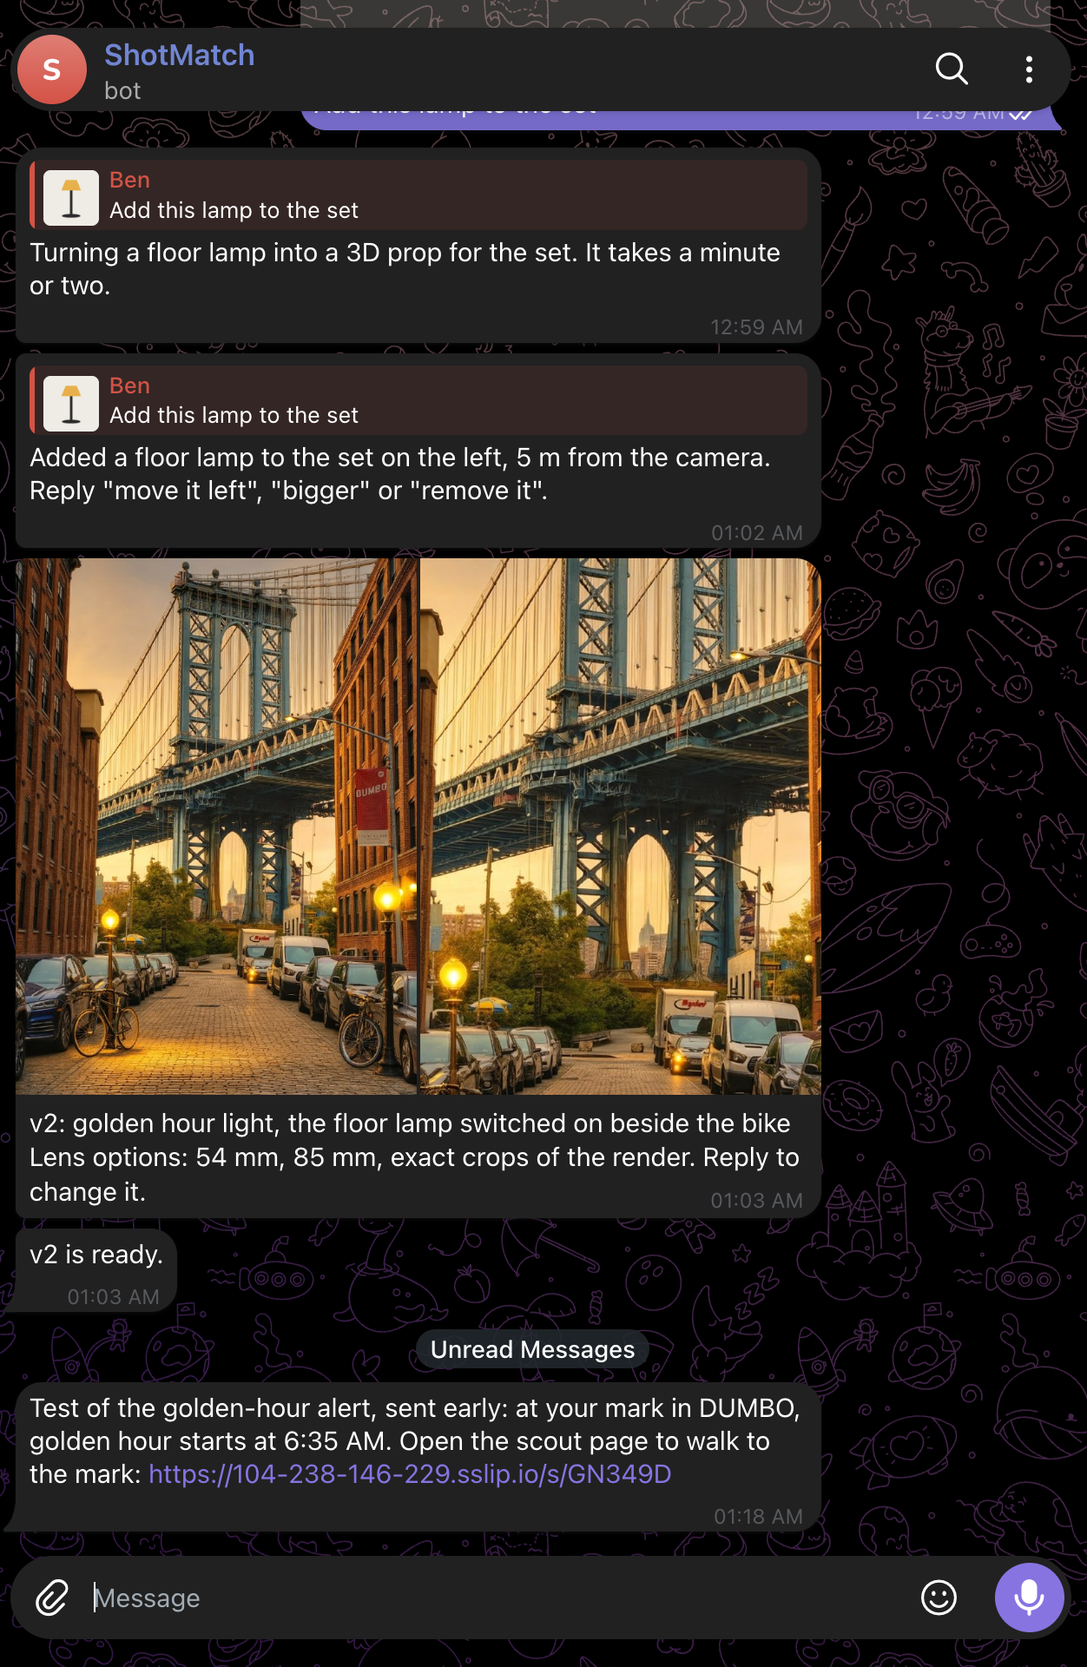
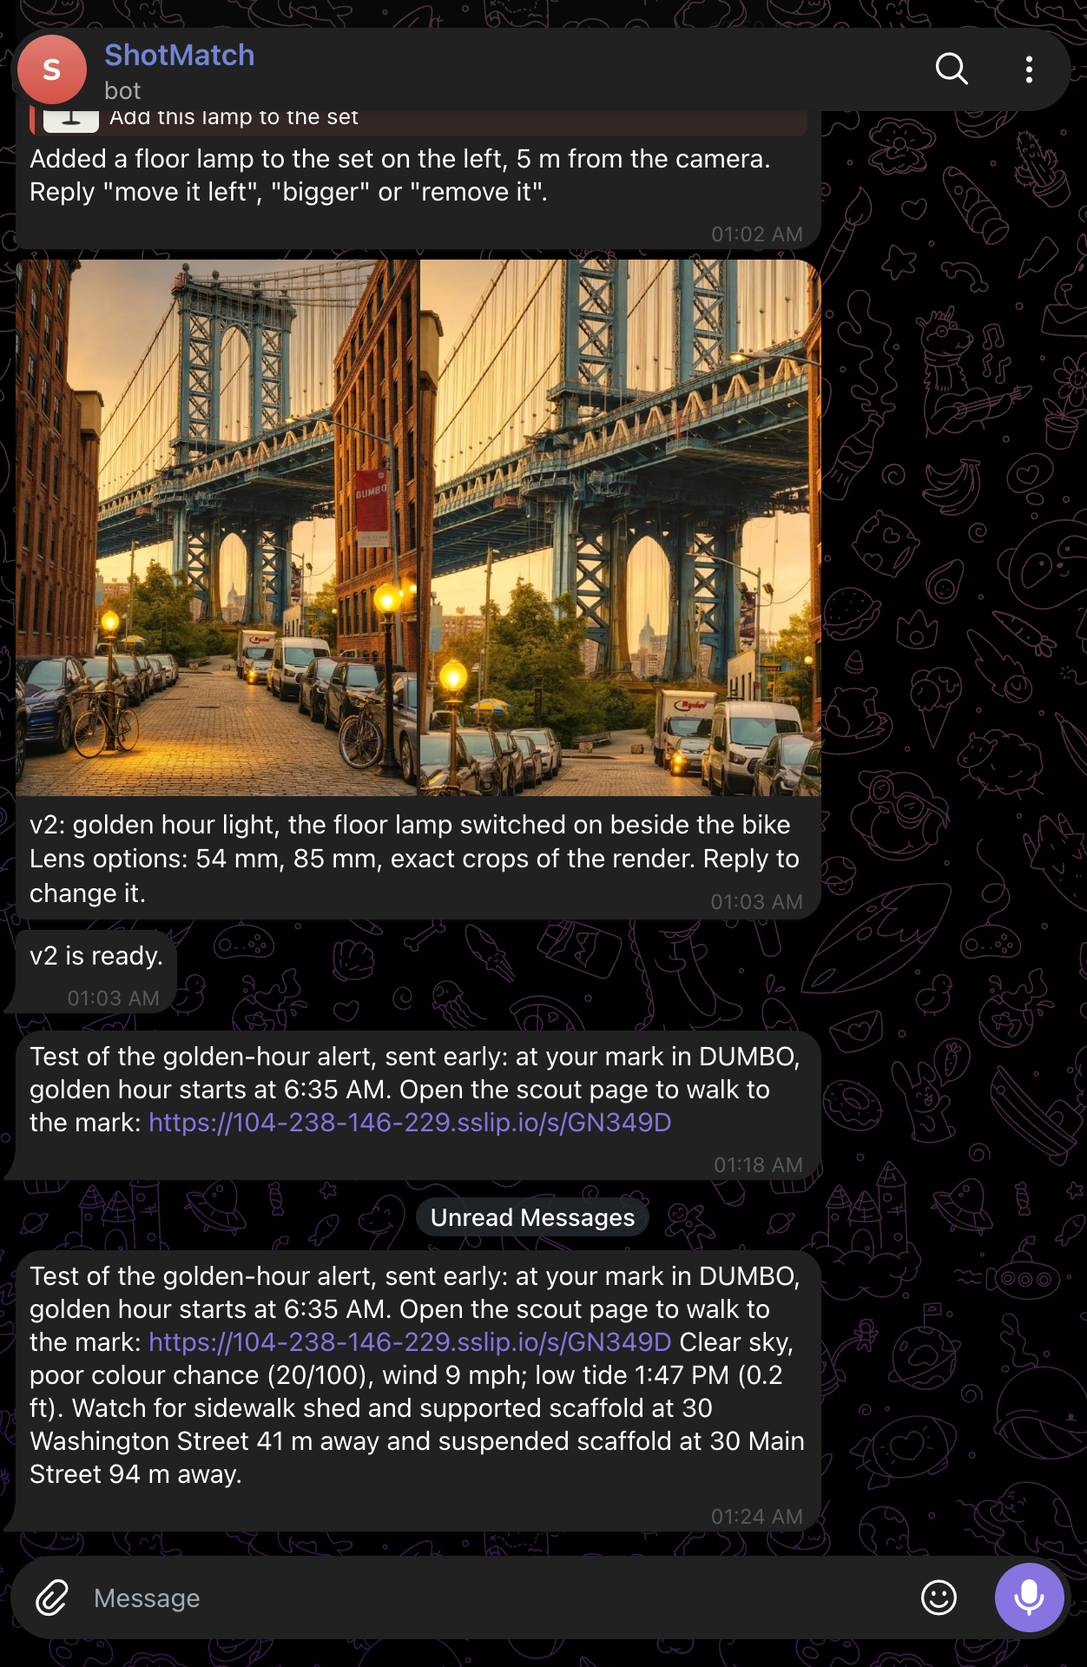
Render runs in the background (202 + poll, parallel edits, 35-43 s for two people); 'make it sunset' picks the evening window; alerts carry conditions

diff --git a/site/src/tracks/photon.ts b/site/src/tracks/photon.ts
@@ -26,10 +26,10 @@ export default {
   order: 3,
   oneLine: 'The shared set reaches every person on the app they already use, and a phone call can guide you to the mark and edit the set by voice.',
   noteTag: 'Live on Telegram',
-  note: 'Every mechanism that runs on Telegram is shown below from real screenshots: Photon\'s live API and the managed bot @ShotMatchSetBot, Sunday Nov 8, 12:42 to 1:18 AM CT. iMessage, SMS, voice calls, email and WhatsApp Business each need a number, DNS or Meta signup, so the phone call, the fallback between channels and those channels are shown from our end-to-end run against a stand-in for the Photon Beta API and tagged Stand-in.',
+  note: 'Every mechanism that runs on Telegram is shown below from real screenshots: Photon\'s live API and the managed bot @ShotMatchSetBot, Sunday Nov 8, 12:42 to 1:24 AM CT. iMessage, SMS, voice calls, email and WhatsApp Business each need a number, DNS or Meta signup, so the phone call, the fallback between channels and those channels are shown from our end-to-end run against a stand-in for the Photon Beta API and tagged Stand-in.',
   hero: { img: liveLocate, alt: 'The live Telegram chat with the ShotMatch bot: a photo of the Manhattan Bridge from Washington St goes in; the reply says Solid, 1600 matches, where to stand, facing north 4 degrees, 54 mm equivalent or about 2.2x on an iPhone, and the next golden hour.', caption: 'Live on Telegram, Nov 8, 12:51 AM CT: a texted photo comes back located, with where to stand, the heading, the lens and the next good light.', frame: 'none' },
   headline: [
-    { value: '9', label: 'live round trips on Telegram, 12:42 to 1:18 AM CT: hello, locate, v1, fork to v1.1, versions, check-in, prop, fan-out, golden-hour alert', check: 'web/screenshots/photon-live-*.png; message @ShotMatchSetBot' },
+    { value: '9', label: 'live round trips on Telegram, 12:42 to 1:24 AM CT: hello, locate, v1, fork to v1.1, versions, check-in, prop, fan-out, golden-hour alert with conditions', check: 'web/screenshots/photon-live-*.png; message @ShotMatchSetBot' },
     { value: '29 of 29', label: 'end-to-end checks across all five mechanisms', check: 'cd crew && npx tsx scripts/photon-e2e.ts', standIn: true },
     { value: '6', label: 'channels, each in its own form: iMessage, Telegram, SMS, WhatsApp Business, email, phone', check: 'crew/src/channels/format.ts' },
   ],
@@ -101,9 +101,9 @@ export default {
     {
       mechanism: '5. Messages at the moment of the shot',
       channel: 'Telegram',
-      why: 'Live: the golden-hour alert arrives on the person\'s own channel at the moment the schedule fires; with the scout page open it adds the walking distance. Here a planner scheduled the module\'s reminder a minute out as a test, SpacetimeDB fired it and wrote the outbox row, and the crew sent one message per person through Photon. The fallback to the next channel when iMessage refuses a late send is still proven only against the stand-in.',
-      source: 'Photon live API, managed Telegram bot, Nov 8, 1:18 AM CT',
-      live: { when: '1:18 AM CT', shots: [{ img: liveAlert, alt: 'Telegram: after the v2 album, the bot sends Test of the golden-hour alert, sent early: at your mark in DUMBO, golden hour starts at 6:35 AM. Open the scout page to walk to the mark, with the scout link.' }] },
+      why: 'Live: the golden-hour alert arrives on the person\'s own channel at the moment the schedule fires, with the conditions at the mark: "Clear sky, poor colour chance (20/100), wind 9 mph; low tide 1:47 PM (0.2 ft). Watch for sidewalk shed and supported scaffold at 30 Washington Street 41 m away and suspended scaffold at 30 Main Street 94 m away." With the scout page open it adds the walking distance. These were tests a planner scheduled a minute out (1:18 AM CT without conditions, 1:24 AM CT with them): SpacetimeDB fired the reminder and wrote the outbox row, and the crew sent one message per person through Photon. The fallback to the next channel when iMessage refuses a late send is still proven only against the stand-in.',
+      source: 'Photon live API, managed Telegram bot, Nov 8, 1:18 and 1:24 AM CT',
+      live: { when: '1:24 AM CT', shots: [{ img: liveAlert, alt: 'Telegram: two test golden-hour alerts. 1:18 AM: at your mark in DUMBO, golden hour starts at 6:35 AM, open the scout page to walk to the mark. 1:24 AM: the same, plus Clear sky, poor colour chance (20/100), wind 9 mph; low tide 1:47 PM (0.2 ft). Watch for sidewalk shed and supported scaffold at 30 Washington Street 41 m away and suspended scaffold at 30 Main Street 94 m away.' }] },
       messages: [],
     },
     {
@@ -146,14 +146,14 @@ export default {
     { name: 'Check in by photo', line: 'A texted photo is classified, solved against the spot and compared with the shot camera; the reply gives the correction (live: 9.3 m south, 12 paces forward).', where: 'crew/src/channels/photos.ts, marks.ts; checkin table', status: 'live', img: liveCheckin, alt: 'The live Telegram check-in reply' },
     { name: 'Photo to prop', line: 'A photo of one object becomes a prop through Nemotron and TRELLIS, placed where the reply says. Live run: TRELLIS returned an error, so the lamp became a flat cut-out from the photo.', where: 'crew/src/channels/photos.ts, /api/props/generate', status: 'live', img: liveProp, alt: 'The live Telegram lamp photo and the bot\'s reply' },
     { name: 'Channel fallback on problem codes', line: 'SHARED_LINE_INBOUND_REQUIRED, SPACE_NOT_SENDABLE and SMS_CAMPAIGN_NOT_ELIGIBLE move an alert to the next channel.', where: 'crew/src/channels/alerts.ts', status: 'stand-in' },
-    { name: 'Golden-hour alerts', line: 'The module\'s reminder schedule fires 20 minutes before golden hour; the crew writes one message per person, with their walking distance when their scout page is open (live: a test alert at 1:18 AM CT).', where: 'module reminder schedule, crew/src/channels/alerts.ts', status: 'live', img: liveAlert, alt: 'The live golden-hour test alert in Telegram' },
+    { name: 'Golden-hour alerts', line: 'The module\'s reminder schedule fires 20 minutes before golden hour; the crew writes one message per person, with the conditions at the mark and their walking distance when their scout page is open (live: test alerts at 1:18 and 1:24 AM CT).', where: 'module reminder schedule, crew/src/channels/alerts.ts', status: 'live', img: liveAlert, alt: 'The live golden-hour test alert in Telegram' },
     { name: 'Voice notes in', line: 'Telegram and WhatsApp voice notes are transcribed by NVIDIA Parakeet and routed like typed text.', where: 'crew/src/speech.ts, crew/src/photon.ts', status: 'stand-in' },
     { name: 'Idempotency keys and typing indicator', line: 'Every send carries an idempotency key so a restarted crew never sends twice; a typing indicator shows while a render runs.', where: 'crew/src/channels/api.ts', status: 'stand-in' },
   ],
   proof: [
     { value: '29 of 29', label: 'checks in the end-to-end run of all five mechanisms and photo-to-prop', check: 'cd crew && npx tsx scripts/photon-e2e.ts (uses database shotmatch-photon, never production)', standIn: true },
     { value: '66 of 66', label: 'crew unit tests, including per-channel formats, guidance geometry, the version tree and channel order', check: 'cd crew && npm test' },
-    { value: '9 live', label: 'round trips through Photon\'s live API and @ShotMatchSetBot, 12:42 to 1:18 AM CT: hello, locate (Solid, 1600 matches, 54 mm), v1, fork to v1.1, versions, check-in (9.3 m south), lamp prop, studio render fanned out as an album, golden-hour alert fired by the SpacetimeDB schedule', check: 'web/screenshots/photon-live-*.png; docs/PHOTON.md, Evidence; message @ShotMatchSetBot' },
+    { value: '9 live', label: 'round trips through Photon\'s live API and @ShotMatchSetBot, 12:42 to 1:24 AM CT: hello, locate (Solid, 1600 matches, 54 mm), v1, fork to v1.1, versions, check-in (9.3 m south), lamp prop, studio render fanned out as an album, golden-hour alert fired by the SpacetimeDB schedule with sky, colour chance, wind, tide and scaffolding near the mark', check: 'web/screenshots/photon-live-*.png; docs/PHOTON.md, Evidence; message @ShotMatchSetBot' },
     { value: 'live', label: 'ElevenLabs post-call webhook into SpacetimeDB: bad signature 401, valid one writes the transcript, retry is a no-op', check: 'docs/SPACETIME.md, section HTTP handlers' },
   ],
   ours: [

diff --git a/web/src/studio/Studio.tsx b/web/src/studio/Studio.tsx
@@ -594,6 +594,9 @@ function StudioView({ session, myName }: { session: Session; myName: string }) {
     t.z = gz(t.x, t.y);
     const b = (heading * Math.PI) / 180, el = (55 * Math.PI) / 180, d = 400 / Math.sin(el);
     const pos = t.clone().add(new Vector3(-Math.sin(b), -Math.cos(b), 0).multiplyScalar(d * Math.cos(el))).add(new Vector3(0, 0, 400));
+    // Coming back to the Map (the view switch) opens where it was, just below the hand-off zoom.
+    const m = mapCamRef.current;
+    setMapCam(m ? { ...m, zoom: Math.min(m.zoom, 17.5) } : null);
     setView('persp');
     setCmd({ n: Date.now(), kind: 'place', point: t, pos });
   };
@@ -958,7 +961,7 @@ function StudioView({ session, myName }: { session: Session; myName: string }) {
         {view === 'persp' && origin && <GeoOverview geo={layers} center={origin} camera={cone} heightM={camHeight} widthPx={vp.w} from={1400} to={2000} />}
         {view === 'map' && origin && (
           <Suspense fallback={null}>
-            <GeoMapView geo={layers} sessionId={sid} origin={origin} at={planTime} zone={zone} camera={mapCam ?? mapCamRef.current}
+            <GeoMapView geo={layers} sessionId={sid} origin={origin} at={planTime} zone={zone} camera={mapCam}
               onCamera={c => { mapCamRef.current = c; }} onEnter3D={(c, heading) => enter3D(c, heading)} onOpenShot={openShot} />
           </Suspense>
         )}

diff --git a/crew/src/channels/marks.ts b/crew/src/channels/marks.ts
@@ -74,7 +74,7 @@ export function conditionsLine(c: ShotConditions | null | undefined): string {
   const sky = w ? (w.rainPct >= 50 ? 'rain likely' : w.cloud < 20 ? 'clear sky' : w.cloud < 60 ? 'partly cloudy' : w.cloud < 85 ? 'mostly cloudy' : 'overcast') : '';
   const head = [sky, c.colorChance && `${c.colorChance.label} colour chance (${c.colorChance.score}/100)`,
     w && `wind ${Math.round(w.windMph)} mph${w.gustMph >= w.windMph + 8 ? ` gusting ${Math.round(w.gustMph)}` : ''}`].filter(Boolean).join(', ');
-  const tide = c.tide?.note ? c.tide.note.split(':')[0].replace(/^(Low|High)/, m => m.toLowerCase()) : '';
+  const tide = c.tide?.note ? c.tide.note.split(': ')[0].replace(/^(Low|High)/, m => m.toLowerCase()) : '';
   const first = [head, tide].filter(Boolean).join('; ');
   const near = c.blockers.slice(0, 2).map(b => `${b.label.charAt(0).toLowerCase()}${b.label.slice(1)} ${Math.round(b.m)} m away`);
   return [first && `${first[0].toUpperCase()}${first.slice(1)}.`, near.length && `Watch for ${near.join(' and ')}.`].filter(Boolean).join(' ');

diff --git a/docs/NVIDIA.md b/docs/NVIDIA.md
@@ -108,12 +108,17 @@ Request: `{ "sessionId": "18", "mode": "auto | text3d | image3d | photo3d | flat
 Give a prompt, an image or an imageUrl. `auto` picks `photo3d` for an image and `image3d` for words. `place: false` returns the asset without adding a row (the studio places it itself).
 Response: `{ "mode", "name", "asset": { "id", "url": "/asset/<id>.glb", "bytes", "cached" }, "dims": { "length_m", "width_m", "height_m", "source" }, "conceptUrl", "description", "object": { "id", "name" }, "fallback", "ran": [...], "ms" }`. It takes 1 s (flat from a photo) to about 3 minutes (TRELLIS retrying).
 
-### `POST /api/render` (multipart)
-Fields: `beauty` (PNG RGBA, required), `shadow` (PNG, alpha = shadow; or greyscale, black = shadow), `depth`, `mask`, `sessionId`, `photoId`, `text`, `mode` (`depth | canny | composite`), `strength` (0.1 to 0.9), `iso`, and either flat `f35`, `aperture`, `focusM`, `sunAzimuth`, `sunAltitude` or a `settings` JSON holding them.
-Response: `{ "url", "compositeUrl", "model", "fallback", "prompt", "label": "AI interpretation", "strength", "rerendered", "checks": [{ "round", "pass", "summary", "objects": [{ "name", "light", "shadow", "scale", "color", "note" }] }], "sunFix": { "azimuth", "altitude", "why" }, "jobId", "ms" }`. The result is also a `preview_job` row with `kind = 'render'`.
+### `POST /api/render` (multipart, asynchronous)
+Fields: `beauty` (PNG RGBA, required), `shadow` (PNG, alpha = shadow; or greyscale, black = shadow), `mask` (object-ID layer, flat colours) and `legend` (JSON `[{id, name, kind, color}]`, which turns placeholders into real subjects), `depth`, `sessionId`, `photoId`, `text`, `mode` (`depth | canny | composite`), `strength` (0.1 to 0.9), `iso`, and either flat `f35`, `aperture`, `focusM`, `sunAzimuth`, `sunAltitude` or a `settings` JSON holding them.
+- `mode=composite` answers 200 at once with the result (under a second).
+- Any other mode answers **202** at once: `{ "requestId": "<16 hex>", "state": "running", "poll": "/api/render/<requestId>" }`. The render runs in the background (about 20 s for one person, 35 to 45 s for two, up to about 2 minutes for a busy set), so no request stays open.
+- `GET /api/render/<requestId>` returns `{ "state": "running" | "done" | "failed", "seconds", "result", "error" }` and keeps answering after a crew restart (the finished state is saved in `data/renders/`). `web/src/nvidia/RenderPanel.tsx` `postLayers()` polls every 2.5 s and resolves with `result`, so its callers (RenderPanel, ArtDirector, Simple mode) did not change.
+- `result`: `{ "url", "compositeUrl", "model", "fallback", "prompt", "label": "AI interpretation", "strength", "rerendered", "placeholders", "checks": [{ "round", "pass", "summary", "placeholders", "objects": [{ "name", "light", "shadow", "scale", "color", "note" }] }], "sunFix": { "azimuth", "altitude", "why" }, "jobId", "ms" }`. The `preview_job` row (`kind = 'render'`) gets the image too, and every step is an agent_step row.
+- At most 4 placeholders are edited per render (people first, then the largest); the edits run in parallel; a second round runs only for the objects the check flagged, and only when the first round took under 60 s.
 
 ### Others
 - `GET /api/set/light?session=` returns Nemotron's light read, the 3D sun that matches it (`sun.azimuth`, `sun.altitude`, null for overcast) and shadow softness.
+- Plan time words (`set_time`): "sunset", "dusk", "golden hour this evening" and "blue hour after sunset" pick the evening window; "sunrise", "dawn" and "morning" the morning one; a bare "golden hour" or "blue hour" the next one from now. The time set is the middle of that window.
 - `POST /api/set/read {sessionId, force}` reads the photo again (objects and light); `POST /api/set/rebuild {sessionId, replace}` places stand-ins.
 - `POST /api/set/critique {sessionId, imageUrl}` returns `{ summary, strengths, fixes: [{ title, why, steps: [{ tool, args }] }] }`; `POST /api/set/apply {sessionId, steps}` runs them.
 - `POST /api/set/callsheet {sessionId}`; `POST /api/set/check {sessionId, imageUrl}` (physics only).

diff --git a/site/src/content/docs/docs/how-it-works/messaging.md b/site/src/content/docs/docs/how-it-works/messaging.md
@@ -9,7 +9,7 @@ Code: `crew/src/photon.ts` (the event stream and the router), `crew/src/channels
 
 ## What is live, and what was proven against a stand-in
 
-- **Live:** the production crew went live on Photon's API and event stream at 12:30 AM CT on November 8, 2026, and connected a managed Telegram bot. `GET /api/photon/status` lists its handle, @ShotMatchSetBot. Between 12:42 and 1:18 AM CT on Nov 8, through Photon's live API and the managed Telegram bot @ShotMatchSetBot, a photo was located ("Solid ... 1600 matches ... 54 mm"), a set edit came back as v1 with its render, a native reply to v1 forked the set to v1.1, "versions" listed the tree, a street photo was solved as a check-in ("You're 9.3 m south of the mark. Step forward 12 paces, then 4 paces to your left."), a texted lamp became a prop (a flat cut-out: the hosted photo-to-3D model returned an error), and a render started in the studio arrived in Telegram on its own as an album of lens options. A golden-hour alert fired by the SpacetimeDB schedule (a test scheduled a minute out) reached Telegram at 1:18 AM CT. The screenshots are on the [Photon track page](/tracks/photon/). The other channels have no public handle yet.
+- **Live:** the production crew went live on Photon's API and event stream at 12:30 AM CT on November 8, 2026, and connected a managed Telegram bot. `GET /api/photon/status` lists its handle, @ShotMatchSetBot. Between 12:42 and 1:24 AM CT on Nov 8, through Photon's live API and the managed Telegram bot @ShotMatchSetBot, a photo was located ("Solid ... 1600 matches ... 54 mm"), a set edit came back as v1 with its render, a native reply to v1 forked the set to v1.1, "versions" listed the tree, a street photo was solved as a check-in ("You're 9.3 m south of the mark. Step forward 12 paces, then 4 paces to your left."), a texted lamp became a prop (a flat cut-out: the hosted photo-to-3D model returned an error), and a render started in the studio arrived in Telegram on its own as an album of lens options. A golden-hour alert fired by the SpacetimeDB schedule (a test scheduled a minute out) reached Telegram at 1:24 AM CT with the conditions at the mark: "Clear sky, poor colour chance (20/100), wind 9 mph; low tide 1:47 PM (0.2 ft)" and the scaffolding nearby. The screenshots are on the [Photon track page](/tracks/photon/). The other channels have no public handle yet.
 - **Waiting on setup by hand:** the iMessage shared line, SMS (a number and a 10DLC campaign), the voice number, email on our own domain (DNS records) and WhatsApp Business each need steps in Photon's dashboard. Invites to those channels are saved as `channel_link` rows and go out once the line exists.
 - **Proven end to end:** all five mechanisms below ran against a stand-in for Photon's Beta API (`crew/test/fake-photon.ts`, the HTTP routes and the Socket.IO event stream with replay cursors) with the real crew, the real SpacetimeDB module (a scratch database) and real NVIDIA models. `crew/scripts/photon-e2e.ts` passed 29 of 29 checks on its last run.
 

diff --git a/DEVPOST.md b/DEVPOST.md
@@ -188,7 +188,7 @@ Most people on a shoot won't install anything, and the scout's hands are full. P
 4. **The thread is the version tree.** Reply to v1 in any chat app and the set forks to v1.1.
 5. **Golden-hour alerts** with your walking time, sent on the next channel when the shared iMessage line refuses.
 
-A photo of one object becomes a 3D prop in the set. Status, plainly: live on Telegram. Between 12:42 and 1:18 AM CT on Nov 8, through Photon's live API and the managed Telegram bot @ShotMatchSetBot, a photo was located ("Solid ... 1600 matches ... 54 mm"), a set edit came back as v1 with its render, a native reply to v1 forked the set to v1.1, "versions" listed the tree, a street photo was solved as a check-in ("You're 9.3 m south of the mark. Step forward 12 paces, then 4 paces to your left."), a texted lamp became a prop (a flat cut-out: the hosted photo-to-3D model returned an error), and a render started in the studio arrived in Telegram on its own as an album of lens options. A golden-hour alert fired by the SpacetimeDB schedule (a test scheduled a minute out) reached Telegram at 1:18 AM CT. Screenshots are on the Photon page. iMessage, SMS, voice calls, email and
+A photo of one object becomes a 3D prop in the set. Status, plainly: live on Telegram. Between 12:42 and 1:24 AM CT on Nov 8, through Photon's live API and the managed Telegram bot @ShotMatchSetBot, a photo was located ("Solid ... 1600 matches ... 54 mm"), a set edit came back as v1 with its render, a native reply to v1 forked the set to v1.1, "versions" listed the tree, a street photo was solved as a check-in ("You're 9.3 m south of the mark. Step forward 12 paces, then 4 paces to your left."), a texted lamp became a prop (a flat cut-out: the hosted photo-to-3D model returned an error), and a render started in the studio arrived in Telegram on its own as an album of lens options. A golden-hour alert fired by the SpacetimeDB schedule (a test scheduled a minute out) reached Telegram at 1:24 AM CT with the conditions at the mark: "Clear sky, poor colour chance (20/100), wind 9 mph; low tide 1:47 PM (0.2 ft)" and the scaffolding nearby. Screenshots are on the Photon page. iMessage, SMS, voice calls, email and
 WhatsApp Business need a number, DNS or Meta signup, so the call, the fallback between channels and those channels were proven end to end against a stand-in for Photon's Beta API with
 the real crew, the real SpacetimeDB module and real NVIDIA models: 29 of 29 checks.
 

diff --git a/docs/story.md b/docs/story.md
@@ -178,7 +178,7 @@ them. Five mechanisms:
 Plus a photo of one object becomes a 3D prop in the set.
 
 **Evidence.** The production crew went live on Photon's API and event stream at 12:30 AM CT Sunday and connected a managed Telegram bot
-over the API. Live on Telegram: Between 12:42 and 1:18 AM CT on Nov 8, through Photon's live API and the managed Telegram bot @ShotMatchSetBot, a photo was located ("Solid ... 1600 matches ... 54 mm"), a set edit came back as v1 with its render, a native reply to v1 forked the set to v1.1, "versions" listed the tree, a street photo was solved as a check-in ("You're 9.3 m south of the mark. Step forward 12 paces, then 4 paces to your left."), a texted lamp became a prop (a flat cut-out: the hosted photo-to-3D model returned an error), and a render started in the studio arrived in Telegram on its own as an album of lens options. A golden-hour alert fired by the SpacetimeDB schedule (a test scheduled a minute out) reached Telegram at 1:18 AM CT. Screenshots: `web/screenshots/photon-live-*.png`.
+over the API. Live on Telegram: Between 12:42 and 1:24 AM CT on Nov 8, through Photon's live API and the managed Telegram bot @ShotMatchSetBot, a photo was located ("Solid ... 1600 matches ... 54 mm"), a set edit came back as v1 with its render, a native reply to v1 forked the set to v1.1, "versions" listed the tree, a street photo was solved as a check-in ("You're 9.3 m south of the mark. Step forward 12 paces, then 4 paces to your left."), a texted lamp became a prop (a flat cut-out: the hosted photo-to-3D model returned an error), and a render started in the studio arrived in Telegram on its own as an album of lens options. A golden-hour alert fired by the SpacetimeDB schedule (a test scheduled a minute out) reached Telegram at 1:24 AM CT with the conditions at the mark: "Clear sky, poor colour chance (20/100), wind 9 mph; low tide 1:47 PM (0.2 ft)" and the scaffolding nearby. Screenshots: `web/screenshots/photon-live-*.png`.
 The other lines need numbers, DNS and testers set up by hand in Photon's dashboard, so all five mechanisms were proven
 end to end against a stand-in for Photon's Beta API (real crew, real SpacetimeDB module, real NVIDIA models): 29 of 29
 checks. Say this plainly on every Photon surface.
